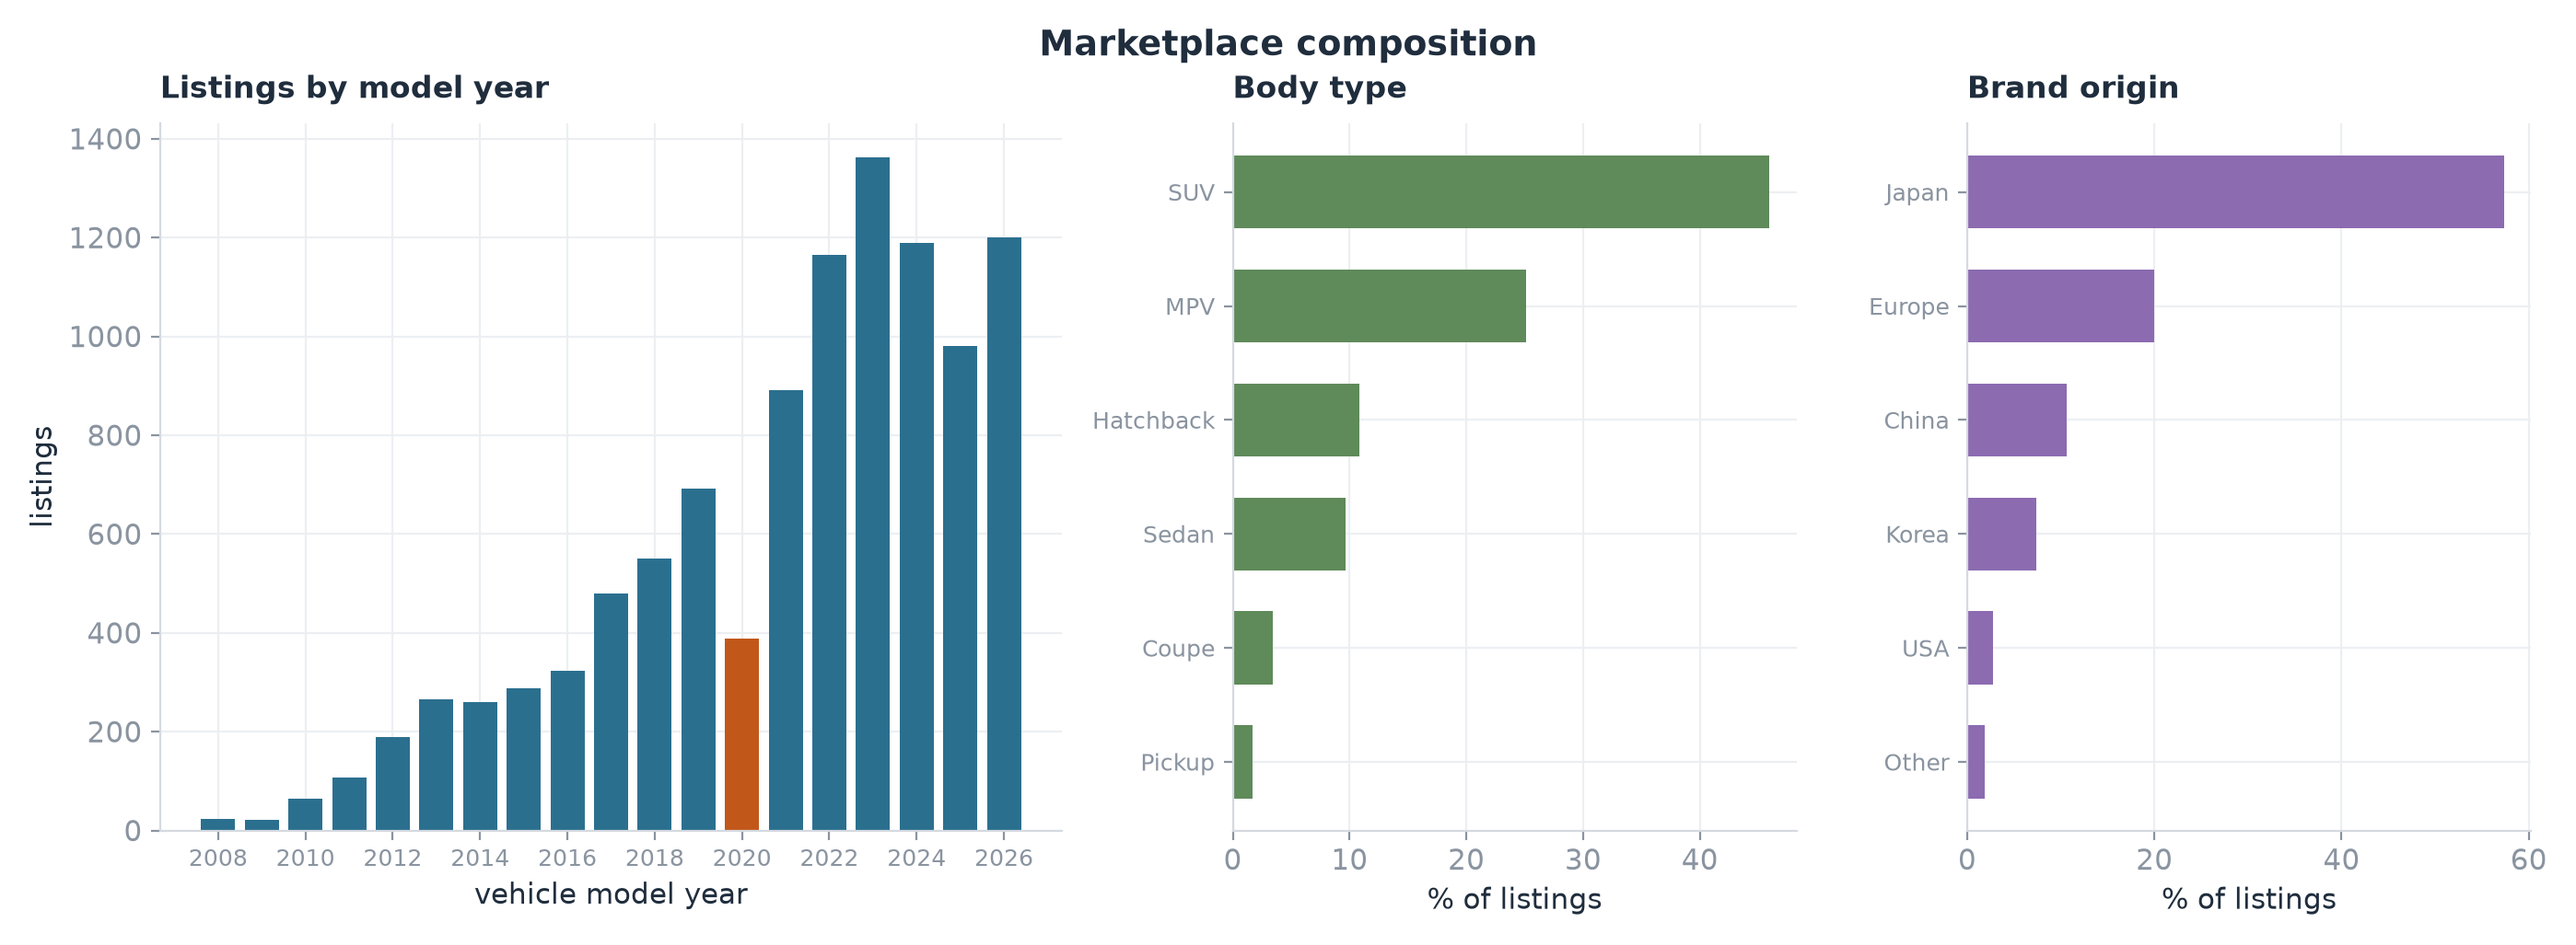
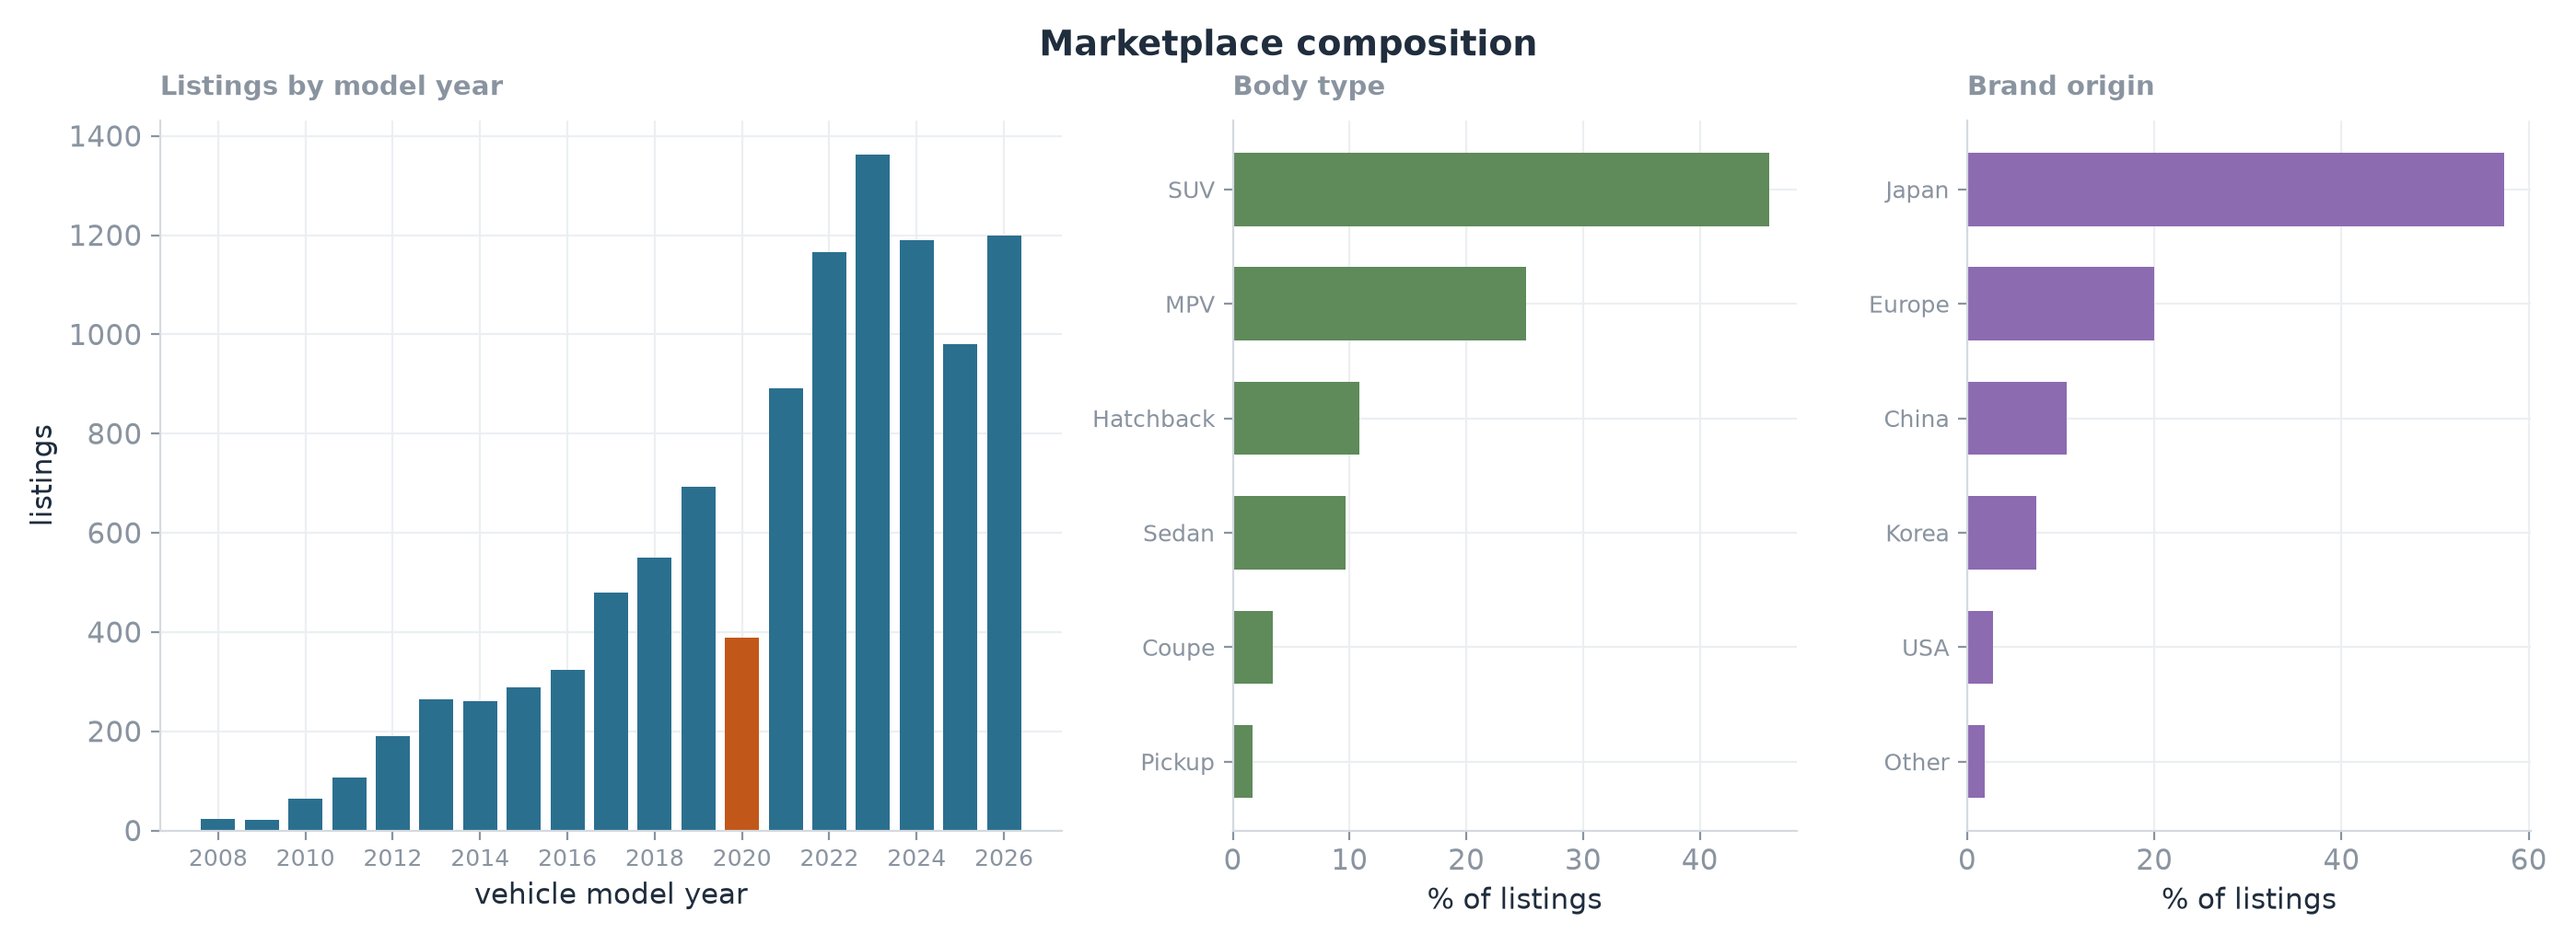
Give panel labels a quieter style under the figure title
Keeping both the figure title and the panel titles at the same weight made them read as two competing headlines stacked over the right panel. Panel titles are now smaller and grey, so the hierarchy is clear and the figure title no longer has to be pushed far away to separate them.

diff --git a/projects/02-used-car-market/eda.py b/projects/02-used-car-market/eda.py
@@ -81,7 +81,7 @@ def out(msg: str = "") -> None:
     _lines.append(str(msg))
 
 
-def add_title(fig, text: str, gap: float = 0.012) -> None:
+def add_title(fig, text: str, gap: float | None = None) -> None:
     """Centre a title just above the axes.
 
     fig.suptitle() reserves its own band of empty space and tight_layout's
@@ -98,6 +98,10 @@ def add_title(fig, text: str, gap: float = 0.012) -> None:
     left = min(b.x0 for b in boxes)
     right = max(b.x1 for b in boxes)
     top = max(b.y1 for b in boxes)
+    if gap is None:
+        # Panels that carry their own title need more air under the figure
+        # title than a single bare plot does.
+        gap = 0.030 if any(ax.get_title() for ax in fig.axes) else 0.012
     fig.text((left + right) / 2, top + gap, text, ha="center", va="bottom",
              fontsize=13.5, fontweight="bold")
 
@@ -263,7 +267,8 @@ def chart_transmission(df: pd.DataFrame, cells: pd.DataFrame) -> None:
         ax1.text(i, value * 1.02, f"{value:,.0f}", ha="center", va="bottom",
                  fontsize=11, fontweight="bold")
     ax1.set_ylabel("median asking price (Rp million)")
-    ax1.set_title(f"A. All listings pooled — +{100*(at/mt-1):.0f}%", loc="left", pad=12)
+    ax1.set_title(f"A. All listings pooled — +{100*(at/mt-1):.0f}%", loc="left",
+                  pad=10, fontsize=10.5, color=MUTED, fontweight="normal")
     ax1.set_ylim(0, at * 1.16)
 
     # B - like-for-like strip plot, one row per age band. One colour on purpose:
@@ -297,7 +302,8 @@ def chart_transmission(df: pd.DataFrame, cells: pd.DataFrame) -> None:
     ax2.set_ylabel("vehicle age")
     ax2.set_ylim(-0.55, 2.85)
     ax2.set_xlabel("how much more the automatic version asks (%), same model and year")
-    ax2.set_title("B. Comparing the same model and year", loc="left", pad=12)
+    ax2.set_title("B. Comparing the same model and year", loc="left",
+                  pad=10, fontsize=10.5, color=MUTED, fontweight="normal")
 
     add_title(fig, "Automatic versus manual")
     save(fig, "03_transmission_premium.png")
@@ -369,7 +375,8 @@ def chart_mileage(df: pd.DataFrame) -> dict:
     ax2.set_yticks([])
     ax2.set_ylim(-0.62, 0.78)
     ax2.set_xlabel("price difference between the highest- and lowest-mileage\nthird of the same model and year (%)")
-    ax2.set_title("B. Comparing the same model and year", loc="left", pad=12)
+    ax2.set_title("B. Comparing the same model and year", loc="left",
+                  pad=10, fontsize=10.5, color=MUTED, fontweight="normal")
     ax2.text(med + 1.2, 0.60, f"typical {abs(med):.1f}% cheaper", ha="left", va="center",
              fontsize=11, color=ACCENT, fontweight="bold")
 
@@ -390,7 +397,8 @@ def chart_structure(df: pd.DataFrame) -> None:
     years = years[years.index >= 2008]
     colors = [ACCENT if y == 2020 else COOL for y in years.index]
     axes[0].bar(years.index, years.values, color=colors, width=0.78)
-    axes[0].set_title("Listings by model year", loc="left", pad=10)
+    axes[0].set_title("Listings by model year", loc="left", pad=10,
+                      fontsize=10.5, color=MUTED)
     axes[0].set_xlabel("vehicle model year")
     axes[0].set_ylabel("listings")
     axes[0].set_xticks(list(range(2008, 2027, 2)))
@@ -403,7 +411,8 @@ def chart_structure(df: pd.DataFrame) -> None:
     axes[1].set_yticklabels(body.index, fontsize=9)
     axes[1].invert_yaxis()
     axes[1].set_xlabel("% of listings")
-    axes[1].set_title("Body type", loc="left", pad=10)
+    axes[1].set_title("Body type", loc="left", pad=10,
+                      fontsize=10.5, color=MUTED)
 
     origin = df["origin"].value_counts()
     axes[2].barh(np.arange(len(origin)), 100 * origin.values / len(df),
@@ -412,7 +421,8 @@ def chart_structure(df: pd.DataFrame) -> None:
     axes[2].set_yticklabels(origin.index, fontsize=9)
     axes[2].invert_yaxis()
     axes[2].set_xlabel("% of listings")
-    axes[2].set_title("Brand origin", loc="left", pad=10)
+    axes[2].set_title("Brand origin", loc="left", pad=10,
+                      fontsize=10.5, color=MUTED)
 
     add_title(fig, "Marketplace composition")
     save(fig, "05_market_structure.png")

diff --git a/projects/02-used-car-market/model.py b/projects/02-used-car-market/model.py
@@ -107,7 +107,7 @@ def out(msg: str = "") -> None:
     _lines.append(str(msg))
 
 
-def add_title(fig, text: str, gap: float = 0.012) -> None:
+def add_title(fig, text: str, gap: float | None = None) -> None:
     """Centre a title just above the axes.
 
     fig.suptitle() reserves its own band of empty space and tight_layout's
@@ -124,6 +124,10 @@ def add_title(fig, text: str, gap: float = 0.012) -> None:
     left = min(b.x0 for b in boxes)
     right = max(b.x1 for b in boxes)
     top = max(b.y1 for b in boxes)
+    if gap is None:
+        # Panels that carry their own title need more air under the figure
+        # title than a single bare plot does.
+        gap = 0.030 if any(ax.get_title() for ax in fig.axes) else 0.012
     fig.text((left + right) / 2, top + gap, text, ha="center", va="bottom",
              fontsize=13.5, fontweight="bold")
 
@@ -386,7 +390,8 @@ def main() -> None:
     # axis must not zoom into them.
     axa.set_xlim(-2, 2)
     axa.set_xlabel("price difference for the same car sold elsewhere (%)")
-    axa.set_title("A. Where the car is sold", loc="left", pad=12)
+    axa.set_title("A. Where the car is sold", loc="left", pad=10,
+                  fontsize=10.5, color=MUTED, fontweight="normal")
 
     axb.barh(np.arange(len(brand_gap)), brand_gap["median"],
              color=[ACCENT if v > 0 else COOL for v in brand_gap["median"]],
@@ -396,7 +401,8 @@ def main() -> None:
     axb.invert_yaxis()
     axb.axvline(0, color=INK, lw=1)
     axb.set_xlabel("extra price the badge adds, beyond the specifications (%)")
-    axb.set_title("B. Which brand carries a premium", loc="left", pad=12)
+    axb.set_title("B. Which brand carries a premium", loc="left", pad=10,
+                  fontsize=10.5, color=MUTED, fontweight="normal")
 
     add_title(fig, "Price by province and the brand premium")
     fig.savefig(IMAGES / "07_location_and_brand.png", bbox_inches="tight",
